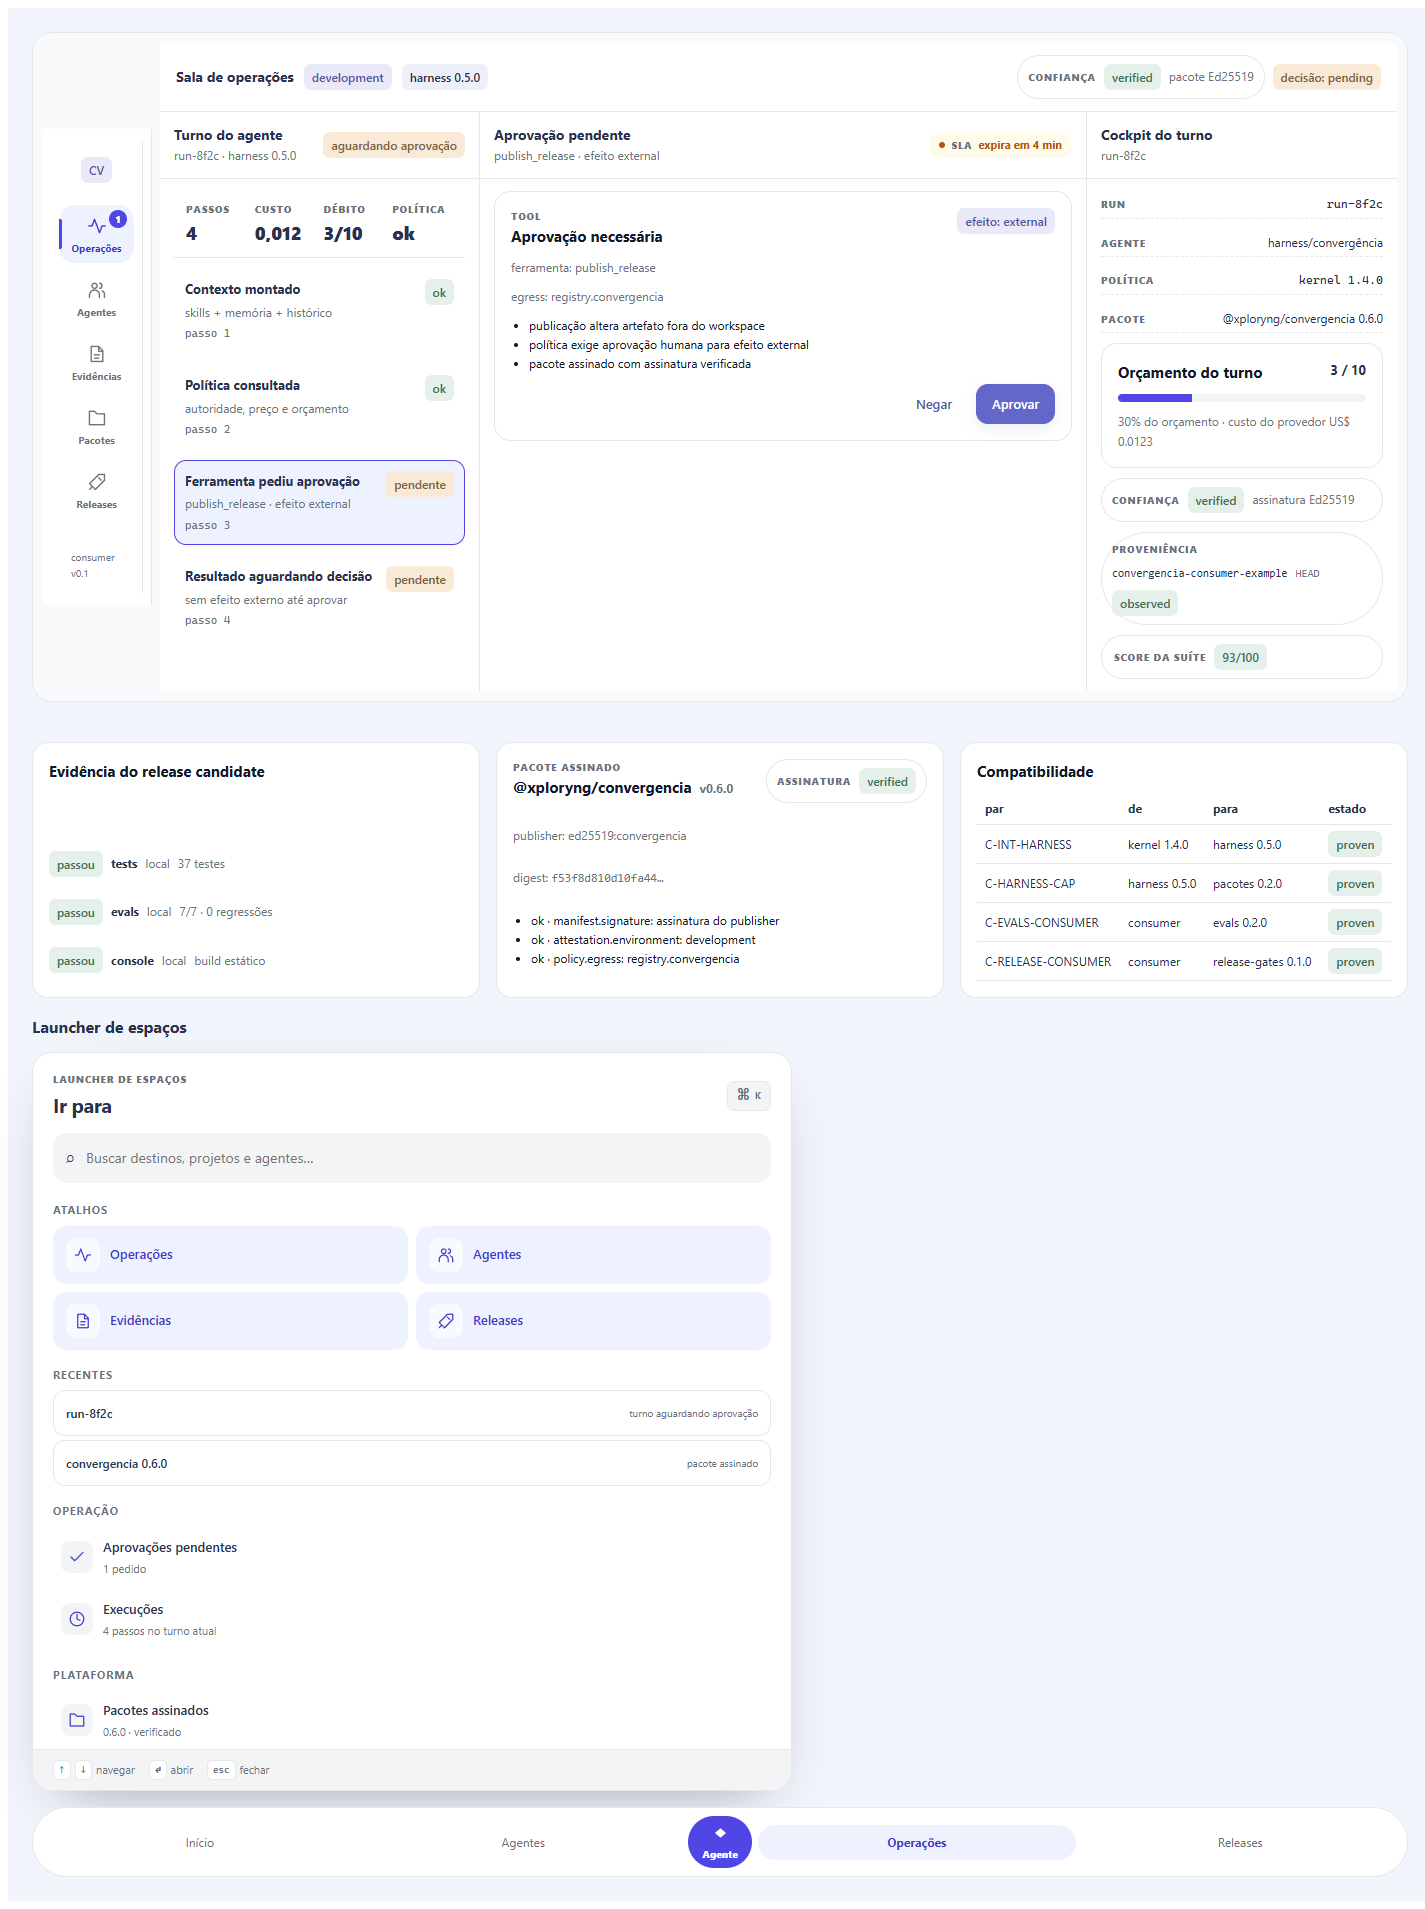
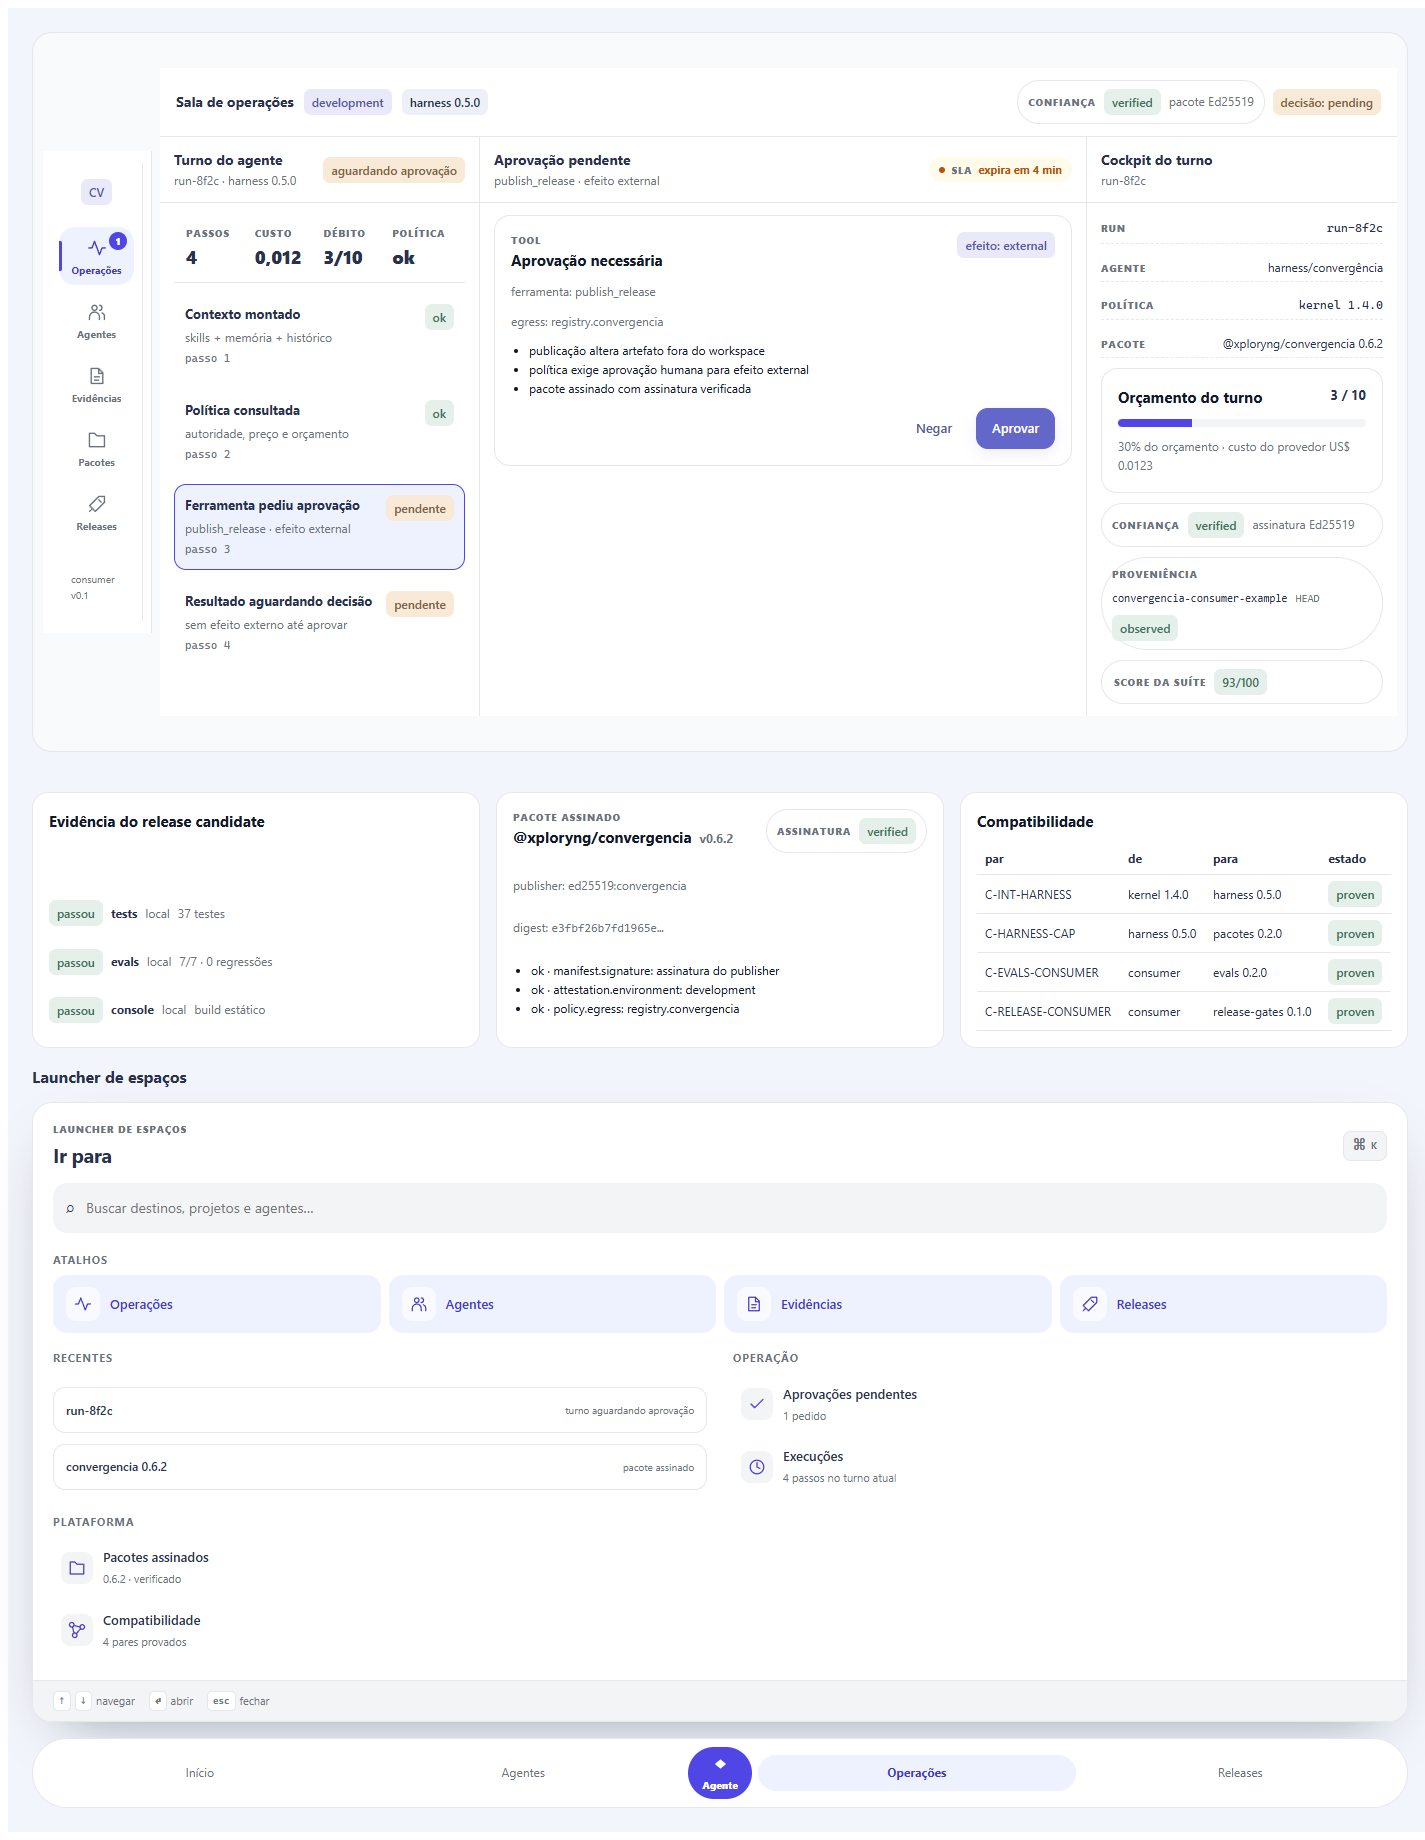
docs: desktop+mobile gallery and menu fixes

diff --git a/README.md b/README.md
@@ -6,14 +6,18 @@ A linguagem visual comum: tokens, componentes e blocos para as superfícies da C
 
 ## Interface
 
-O design system em uso: o console de referência e o catálogo de tokens.
+O design system em uso: a sala de operações em duas larguras e o catálogo de tokens.
 
-| Console de referência | Catálogo no Storybook |
+| Desktop | Mobile |
 | :---: | :---: |
-| <img src="docs/images/console-desktop.png" alt="Sala de operações do agente com turno, aprovação e cockpit" width="520" /> | <img src="docs/images/storybook.png" alt="Catálogo de cores semânticas no Storybook" width="520" /> |
-| Turno, aprovação, cockpit, evidência e launcher. | Tokens, tipografia, estados e fundações. |
+| <img src="docs/images/console-desktop.png" alt="Sala de operações no desktop com rail, painéis e launcher" width="640" /> | <img src="docs/images/console-mobile.png" alt="Sala de operações no celular com painéis empilhados" width="220" /> |
+| Rail com rótulos, três painéis e launcher fluido. | Painéis empilhados, launcher e dock em 390px. |
 
-<sub>Capturas reais do build 0.6.2 — console em 1440px e Storybook de tokens.</sub>
+### Storybook
+
+![Catálogo de cores semânticas no Storybook](docs/images/storybook.png)
+
+<sub>Capturas reais do build 0.6.2 — console em 1440px e 390px; Storybook de tokens.</sub>
 
 ## O que é
 
